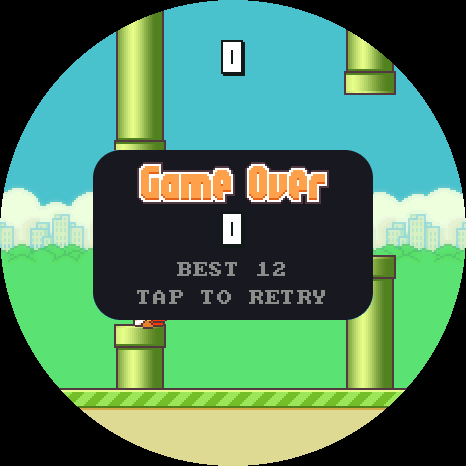
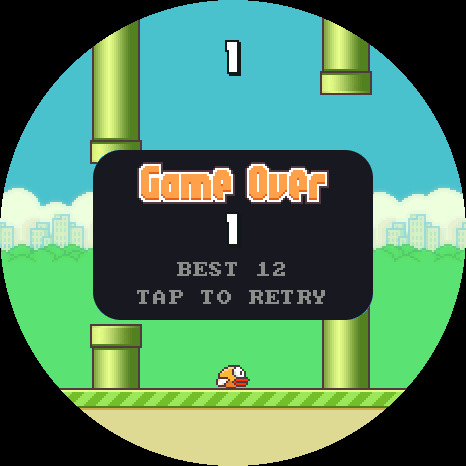
Put the Sky Hop bird in the middle of the screen
HOP_X is the screen's centre now, so the ready screen is centred around the
bird. The screenshots are re-rendered.

diff --git a/apps/sky-hop/src/game.rs b/apps/sky-hop/src/game.rs
@@ -8,7 +8,7 @@ pub const C: i32 = SIZE / 2;
 /// Fixed-point one for the critter's height and speed.
 pub const Q: i32 = 256;
 /// The critter: its x never changes, its body is a disc of this radius.
-pub const HOP_X: i32 = 150;
+pub const HOP_X: i32 = C;
 pub const R: i32 = 13;
 /// Per tick², per tick, and the fastest fall per tick (Q).
 pub const GRAVITY: i32 = 140;
